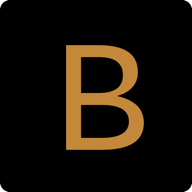
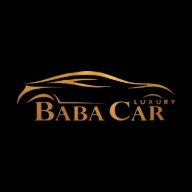
k

diff --git a/src/forms.js b/src/forms.js
@@ -1,4 +1,4 @@
-import { dealer, dealerLines, social } from './config.js';
+import { dealer, dealerLines, salesFirst, social } from './config.js';
 import { icons, directionLinks } from './icons.js';
 import { safeURL } from './util.js';
 import { live, supabase } from './data.js';
@@ -53,10 +53,12 @@ export function setupForms() {
       visit.innerHTML = `<address class="footer-address">${lines.map(esc).join(',<br>')}</address>${dealer.hours ? `<p class="footer-hours">${esc(dealer.hours)}</p>` : ''}<p class="footer-directions">${directionLinks('footer-route')}</p>`;
     }
     const talk = document.querySelector('[data-footer-lines]'), chat = dealer.whatsapp.replace(/\D/g, '');
+    // Sales: the numbers in salesFirst, then the admin's, one under another.
+    const sales = [...new Set([...salesFirst, dealer.phone].filter(Boolean))];
     if (talk) talk.innerHTML = [
-      dealer.phone && [chat ? 'Sales and WhatsApp' : 'Sales', dealer.phone],
+      sales.length && [chat ? 'Sales and WhatsApp' : 'Sales', ...sales],
       ...dealerLines.map(line => [line.label, line.phone]),
-    ].filter(Boolean).map(([label, number]) => `<p class="footer-line"><small>${esc(label)}</small><a href="${tel(number)}">${esc(number)}</a></p>`).join('')
+    ].filter(Boolean).map(([label, ...numbers]) => `<p class="footer-line"><small>${esc(label)}</small>${numbers.map(number => `<a href="${tel(number)}">${esc(number)}</a>`).join('')}</p>`).join('')
       + (dealer.email ? `<p class="footer-line"><small>Email</small><a class="footer-email" href="mailto:${esc(dealer.email)}">${esc(dealer.email)}</a></p>` : '')
       + (chat ? `<a class="footer-chat" href="https://wa.me/${chat}" target="_blank" rel="noopener" data-wa-open>${icons.whatsapp}Message us on WhatsApp</a>` : '');
     const follow = document.querySelector('[data-social]');

diff --git a/src/collection-page.js b/src/collection-page.js
@@ -32,6 +32,17 @@ const $$ = selector => [...document.querySelectorAll(selector)];
 const plural = (n, word) => `${n} ${word}${n === 1 ? '' : 's'}`;
 const bodyPlural = body => /s$/i.test(body) ? body : `${body}s`;
 const goBrowse = () => $('#browse').scrollIntoView({ behavior: reduced ? 'instant' : 'smooth', block: 'start' });
+// After a collection is chosen: down to its cars, the line naming the choice
+// and its count just under the bar that stays at the top (header and browse
+// bar), then the cars; unless they are already well in view (as on a wide
+// screen, where they sit right below the cards).
+const showCars = () => {
+  const grid = $('[data-grid]');
+  if (grid.getBoundingClientRect().top < innerHeight * .55) return;
+  const top = ($('.browse-status') || grid).getBoundingClientRect().top;
+  const above = ($('.site-header')?.offsetHeight || 0) + ($('[data-browse-bar]')?.offsetHeight || 0);
+  window.scrollTo({ top: Math.max(0, top + scrollY - above), behavior: reduced ? 'instant' : 'smooth' });
+};
 
 introCopy();
 startDrive();
@@ -269,6 +280,7 @@ async function init() {
       state.collection = choice.dataset.collection;
       state.saved = false;
       apply();
+      requestAnimationFrame(showCars);
     });
   }
 

diff --git a/src/config.js b/src/config.js
@@ -12,6 +12,10 @@ export const dealer = {
   enquiryEndpoint: '',
 };
 
+// The footer's sales numbers, set above the sales and WhatsApp line from
+// the admin (`dealer.phone`), in this order.
+export const salesFirst = ['+91 92665 44494'];
+
 // The dealership's other lines, as published on babaluxurycar.com (the sales
 // and WhatsApp line is `dealer.phone`, set in the admin). On the About page.
 export const dealerLines = [

diff --git a/README.md b/README.md
@@ -53,7 +53,7 @@ The public pages share their header, footer and dialogs through `partials/`, set
 
 ## Search
 
-`src/seo.js` holds every page's title and description; `vite.config.js` sets them into each page's head at build time, with its canonical address on `https://www.babaluxurycar.com` (the bare babaluxurycar.com redirects there), Open Graph and Twitter previews (`public/brand/og-image.jpg`, 1200×630), `en-IN`, and structured data: the dealership as an `AutoDealer` (address, hours, each line, its founders Vinod Ahuja and Pawan Ahuja, its slogan, Instagram and YouTube) and the `WebSite` on the home page, a breadcrumb on each inner page, the sell page's questions as a `FAQPage`. A car's page sets its own title, description, canonical address, preview photograph and structured data when the car is known (a `Car`, with its price as an `Offer` while it is for sale, and its breadcrumb); showcase models are kept out of search. Every page links `public/favicon.ico` (16, 32 and 48 px, for search results and older browsers) beside `favicon.svg`, and `public/site.webmanifest` (icons at 192 and 512 px in `public/brand/`). What only the dealership can give goes in `searchEngines` in `src/config.js`, each left out while empty: the Google Search Console and Bing verification codes, the showroom's map pin, the founding year and other profiles (such as the Google Business Profile). `public/robots.txt` keeps crawlers out of the admin and `/api/`, and points to `/sitemap.xml`, which `vercel.json` sends to `api/sitemap.js`: the pages and every car, read from the database when asked, each car with its first photograph. `vercel.json` also sets security headers and long caching for the build's hashed files, and marks every page served from a `*.vercel.app` address `noindex`, so search engines index the site only at its own domain.
+`src/seo.js` holds every page's title and description; `vite.config.js` sets them into each page's head at build time, with its canonical address on `https://www.babaluxurycar.com` (the bare babaluxurycar.com redirects there), Open Graph and Twitter previews (`public/brand/og-image.jpg`, 1200×630), `en-IN`, and structured data: the dealership as an `AutoDealer` (address, hours, each line, its founders Vinod Ahuja and Pawan Ahuja, its slogan, Instagram and YouTube) and the `WebSite` on the home page, a breadcrumb on each inner page, the sell page's questions as a `FAQPage`. A car's page sets its own title, description, canonical address, preview photograph and structured data when the car is known (a `Car`, with its price as an `Offer` while it is for sale, and its breadcrumb); showcase models are kept out of search. The site's icon is the whole Baba Car logo (the gold car and BABA CAR, from `public/brand/baba-luxury-car.png`) on black, its strokes a little bolder at 16 to 48 px so it survives at tab size. Every page links `public/favicon.ico` (16, 32 and 48 px, for search results and older browsers) beside `favicon.svg` (the 128 px icon inside an SVG), and `public/site.webmanifest` (icons at 192 and 512 px in `public/brand/`). The Apple touch icon is the whole logo too. What only the dealership can give goes in `searchEngines` in `src/config.js`, each left out while empty: the Google Search Console and Bing verification codes, the showroom's map pin, the founding year and other profiles (such as the Google Business Profile). `public/robots.txt` keeps crawlers out of the admin and `/api/`, and points to `/sitemap.xml`, which `vercel.json` sends to `api/sitemap.js`: the pages and every car, read from the database when asked, each car with its first photograph. `vercel.json` also sets security headers and long caching for the build's hashed files, and marks every page served from a `*.vercel.app` address `noindex`, so search engines index the site only at its own domain.
 
 ## Motion layer
 
@@ -117,7 +117,7 @@ The film inspects one car: the Mercedes-Benz GLS 580 in Cavansite Blue. Its glaz
 
 The film is set in the supplied car showroom (`car-showroom_2.glb`), prepared with `npm run model:showroom` into `public/models/showroom.glb`. It is a 26.3 m square room under a luminous ceiling grid, each panel a softly lit diffuser, glowing warm and brightest over the inspection stage. Its walls are fluted smoked oak, slat by slat a shade apart; light slots stand in the panel-seam reveals 5.32 m and 10.64 m from each wall's centre line, and an LED shadow-gap skirting runs along the floor. The floor is polished large-format stone in 1.33 m tiles on the walls' panel grid, with a flush turntable ringed by a warm LED line at the inspection mark, and a light strip crosses each threshold (`src/showroom-floor.js`). The doorways stand in bronze portals. The Baba logo is lit on the back wall, beside the drive-in doorway, for the whole film (`src/studio-environment.js`). The slots, skirting, ring and logo are all captured into the car's reflections, so the paint reflects clean studio light shapes; the grid between the ceiling panels reflects as a soft line, so the bodywork's ripples never wobble. Drive-in (rear) and drive-out (front) doorways are cut at existing wall-panel seams, and the front and rear walls bounce light only either side of them, so a car crossing a threshold is lit evenly. The film opens in the lit showroom with the GLS emerging through the rear doorway, and anything beyond the walls fades into darkness. The GLS's walkaround circles the car in one direction and covers less than a full turn: rear three-quarter, right flank, front wheel, bonnet, then the driver's door. The camera keeps moving between these points instead of stopping at each one. The camera then turns to follow the GLS out, and the film ends as it crosses the front threshold, tail lamps lit. The film keeps drawing while it scrolls away, so the scrub settles on that last frame.
 
-The film speaks as a pre-owned luxury dealer in India would: what a buyer checks, chapter by chapter. Paint, repaints and accident history; tread depth, tyre age and brakes; the service book, odometer and RC; the cabin and a test drive; then exchange and paperwork. Headlines are light Newsreader: “Choosing well.”, “Honest bodywork.” and “Drive it home.” sit between the room and the car, so the bodywork passes in front of the words. The overlay is built to read over anything the film shows: each chapter's label is a pair of solid tags, and its note sits on a dark, gold-edged panel with the chapter's checks listed beneath it as tags (solid, never blurred over the moving stage). These titles drift gently with the scroll, reversing with it; the wheel, engine and cabin shots use smaller foreground headlines. Each line is rasterised into its own texture band, with correct display colour and device-pixel alignment. Broad, soft shading keeps the room behind the type quiet without darkening the car or surrounding every letter with a heavy shadow. Phone captions sit at the foot of the stage, clear of the moving subject. As the loader clears, the opening title rises into place. The chapter rail jumps through the film, and the DOM headings retain the accessible text and static fallback. The film's own links (*Browse the collection*, *Find your next car*, *Skip to collection*) open the collection page.
+The film speaks as a pre-owned luxury dealer in India would: what a buyer checks, chapter by chapter. Paint, repaints and accident history; tread depth, tyre age and brakes; the service book, odometer and RC; the cabin and a test drive; then exchange and paperwork. Headlines are light Newsreader: “Choosing well.”, “Honest bodywork.” and “Drive it home.” sit between the room and the car, so the bodywork passes in front of the words. The overlay is built to read over anything the film shows: each chapter's label is a pair of solid tags, and its note sits on a dark, gold-edged panel with the chapter's checks listed beneath it as tags (solid, never blurred over the moving stage). These titles drift gently with the scroll, reversing with it; the wheel, engine and cabin shots use smaller foreground headlines. Each line is rasterised into its own texture band, with correct display colour and device-pixel alignment. Broad, soft shading keeps the room behind the type quiet without darkening the car or surrounding every letter with a heavy shadow. Phone captions sit at the foot of the stage, clear of the moving subject. As the loader clears, the opening title rises into place. The chapter rail jumps through the film, and the DOM headings retain the accessible text and static fallback. The film's own links (*Browse the collection*, *Find your next car*, *Skip to collection*) open the collection page. On the collection page, choosing a collection from the row of cards glides down to its cars (the line naming the choice just under the bar that stays at the top), unless they are already well in view.
 
 The white Featured Collection follows the film directly. About Baba comes next: a pinned white stage on which the BMW X7 (navy metallic) and the Land Rover Defender 110 drive in out of the white, stop side by side, and hold, then drive away out of frame. The Defender is dressed as a Fuji White car (Land Rover paint 867, a solid white) with the Narvik Black contrast roof: gloss black roof, pillars and DEFENDER lettering, Ceres Silver skid plates and bonnet vents, textured black arches, gloss dark grey wheels. The source also carries the Hard Top's body-coloured panels a millimetre outside the rear quarter glass; they are hidden, so the passenger 110's quarter windows show glass instead of flickering white slabs, and the About camera's near plane stands well out, so the depth buffer stays fine at its 22–27 m distance. The introduction is always set: a two-line headline whose second line turns in italic, in the logo's deep gold, with the introduction in the text face and a signature line beneath. The camera looks up the lanes as the cars appear and turns with them, so they arrive beside the copy (below it on phones), never behind it, and leave away from it. The scroll position is the only clock, so scrolling back replays it exactly. Desktop places the copy at left and the cars at right; phones and other tall screens stack the copy above the cars. The camera's lens and framing are fitted to whatever space the laid-out copy leaves. The two models load in the background once the film is ready, and still images of the same cars stand in until they arrive. Links to `#about` land where the cars are parked and the copy is set.
 
